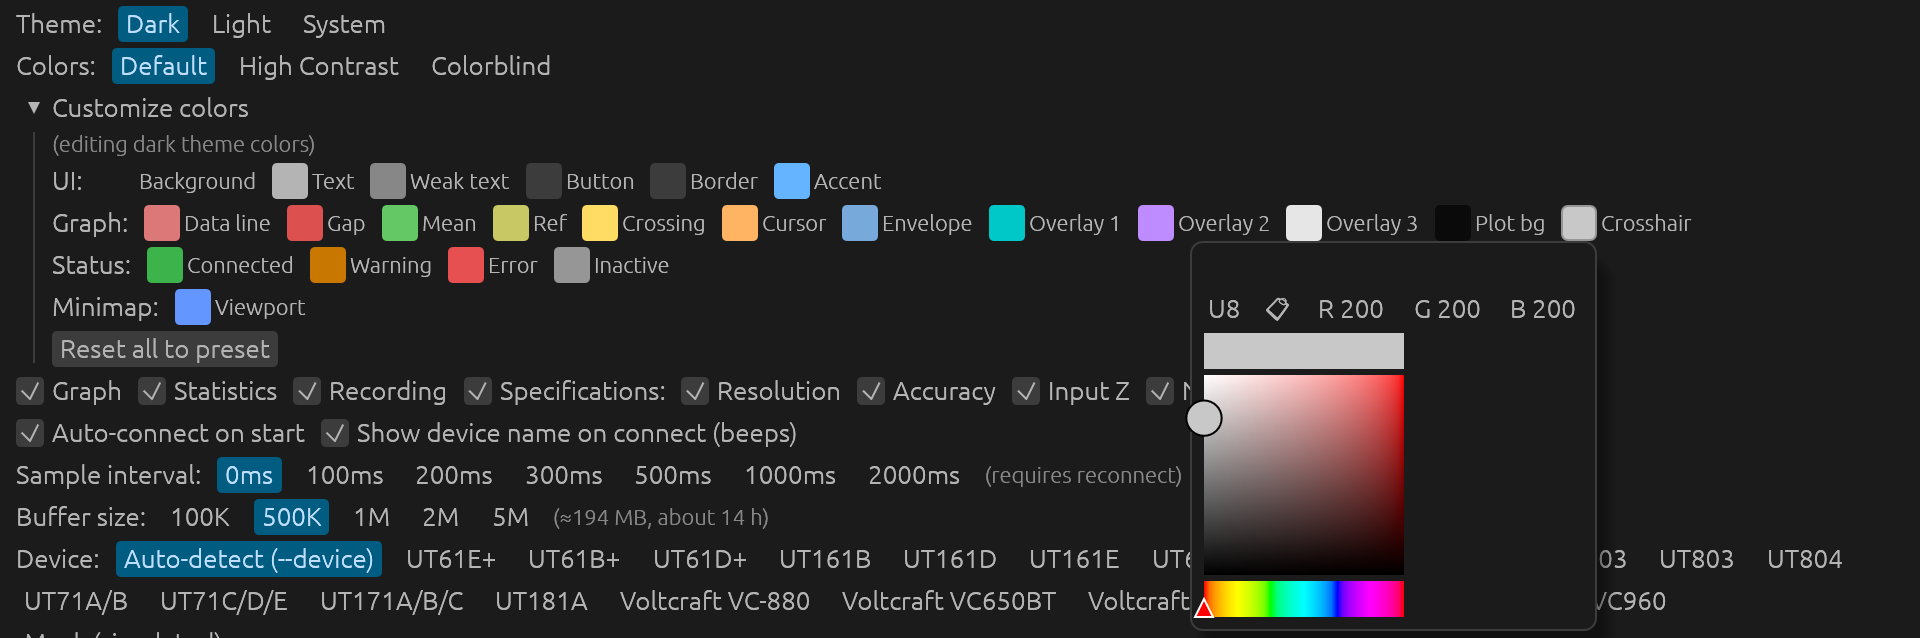
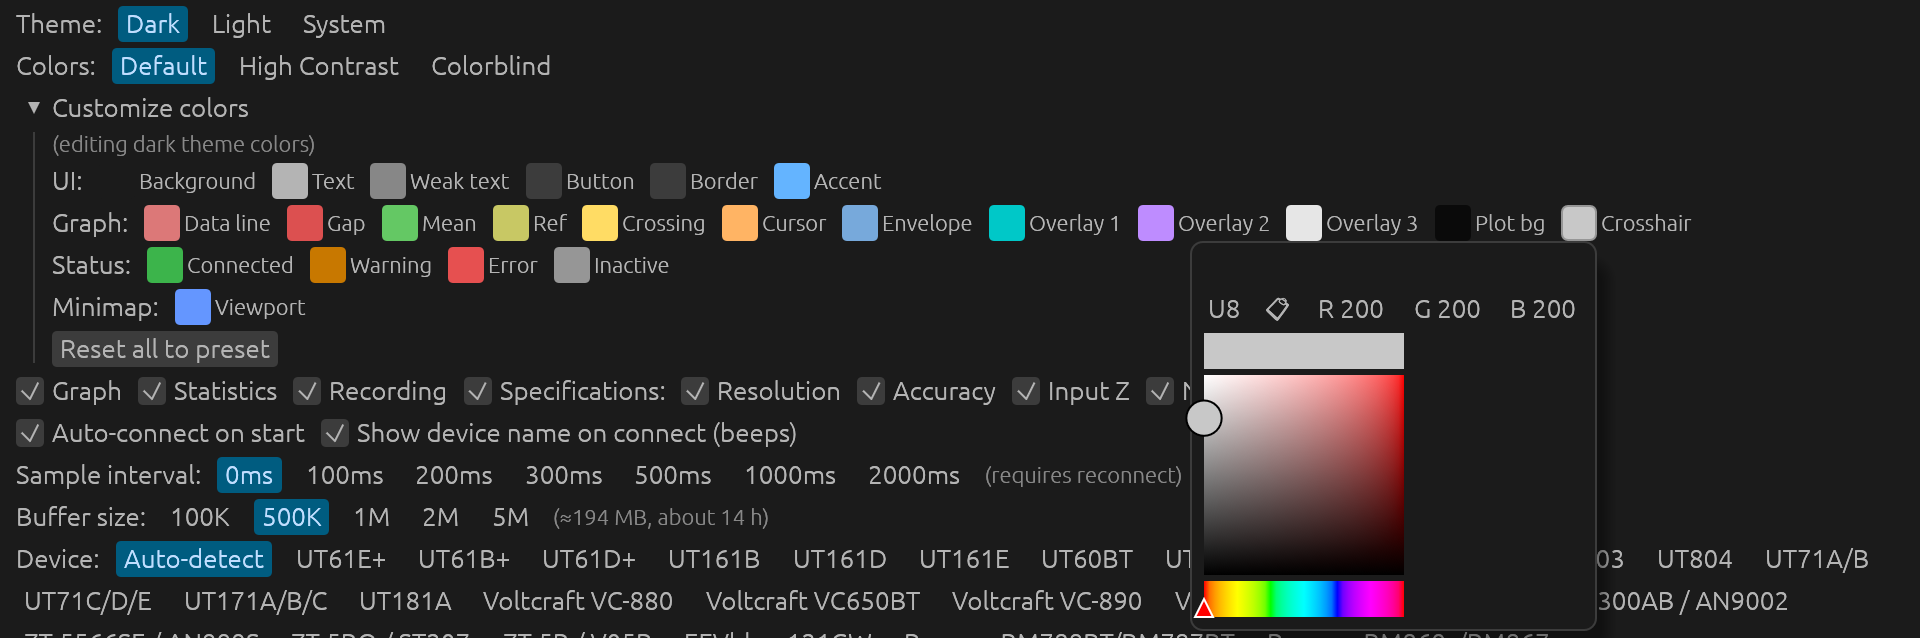
docs: settings screenshots show Auto-detect without "(--device)"
The no-meter scenes launched with --device auto, which the GUI marks as a
command-line override. With the hardware grant and no --device, gui-display
now leaves the choice to the private settings.json, as a user's launch does.
It also refuses a relative VERIFY_GUI_STATE, which would let the app fall
back to the user's real settings.json.

diff --git a/.claude/skills/verify-gui/SKILL.md b/.claude/skills/verify-gui/SKILL.md
@@ -52,7 +52,7 @@ ${CLAUDE_SKILL_DIR}/scripts/gui-display.sh stop
 ${CLAUDE_SKILL_DIR}/scripts/gui-display.sh selftest
 ```
 
-`run` defaults to `--device mock`, takes the other simulated meters (`--device mock-zt5b`), refuses any other `--device` unless the user has approved real hardware (`VERIFY_GUI_ALLOW_HW=1`), uses a private `XDG_CONFIG_HOME` and `XDG_DATA_HOME` so the user's `settings.json` and desktop entries are untouched, and waits for the window plus the first frames. `resize` reshapes the window for small-window checks: there is no window manager on the private display, so the app's `MinInnerSize` hint is not enforced, but the app re-grows a window below its own computed minimum — the command prints the size it settled on. `VERIFY_GUI_GEOMETRY=WxHxDEPTH` (default `1600x1000x24`) sets the root window; `start` reuses a running Xvfb, so `stop` before changing it, and note that an env-var prefix falls outside this skill's allowed-tools pattern and will prompt. `shot` writes plain `.png` paths only. Every subcommand exits non-zero with a message naming the log when something fails — a missing window means the app died or drew elsewhere, so read the log before retrying.
+`run` defaults to `--device mock`, takes the other simulated meters (`--device mock-zt5b`), refuses any other `--device` unless the user has approved real hardware (`VERIFY_GUI_ALLOW_HW=1`; with it and no `--device`, the app opens what `settings.json` names), uses a private `XDG_CONFIG_HOME` and `XDG_DATA_HOME` so the user's `settings.json` and desktop entries are untouched, and waits for the window plus the first frames. `resize` reshapes the window for small-window checks: there is no window manager on the private display, so the app's `MinInnerSize` hint is not enforced, but the app re-grows a window below its own computed minimum — the command prints the size it settled on. `VERIFY_GUI_GEOMETRY=WxHxDEPTH` (default `1600x1000x24`) sets the root window; `start` reuses a running Xvfb, so `stop` before changing it, and note that an env-var prefix falls outside this skill's allowed-tools pattern and will prompt. `shot` writes plain `.png` paths only. Every subcommand exits non-zero with a message naming the log when something fails — a missing window means the app died or drew elsewhere, so read the log before retrying.
 
 ## Input behaviour
 
